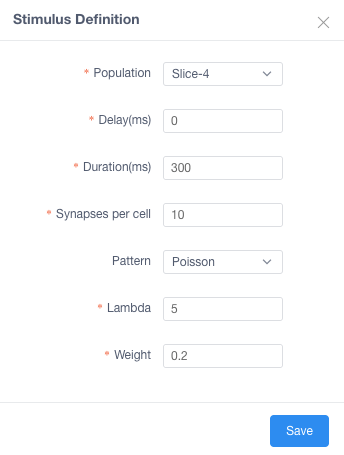
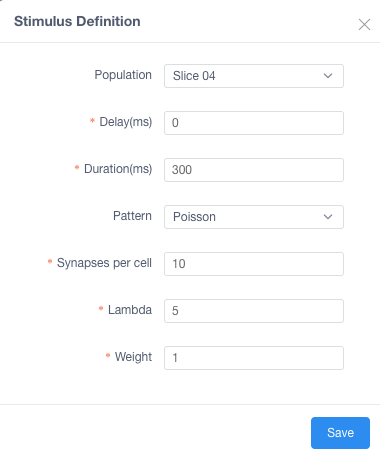
Update images Brain Area simulation documentation

diff --git a/source/online_usecases/brain_area_circuit_in_silico_experiments/hippocampus/configure_run_brainregion_preconf_model_data/configure_run_brainregion_preconf_model_data.rst b/source/online_usecases/brain_area_circuit_in_silico_experiments/hippocampus/configure_run_brainregion_preconf_model_data/configure_run_brainregion_preconf_model_data.rst
@@ -13,7 +13,7 @@ Run Simulations
 
 ----------------
 
-From the **top** you can configure:
+In the **top section** you can configure:
 
    |run_simulation_top|
 
@@ -21,11 +21,11 @@ From the **top** you can configure:
 -  ``Duration``: Time length of stimulus duration, given in
    milliseconds(ms)
 -  ``View Simulations``: From here you can see all the history of
-   simulations (explained in section **2**)
+   simulations (explained in section **View Simulations**)
 
 --------------
 
-From the **middle** you can configure:
+In the **next section** you can configure:
 
    |run_simulation_middle|
 
@@ -44,7 +44,7 @@ From the **middle** you can configure:
          milliseconds(ms)
       -  *Duration*: Time length of stimulus duration, given in
          milliseconds(ms)
-      -  *Number of synapses*: The number of synapses to create
+      -  *Synapses per cell*: The number of synapses to create
       -  *Pattern*: Type of stimulus to inject
       -  *Lambda*: Configure the random distribution
       -  *Weight*: The strength of the created synapses
@@ -63,14 +63,14 @@ From the **middle** you can configure:
          synapse]
       -  *StartTime*: Time to start reporting(ms)
       -  *EndTime*: Time to stop reporting(ms)
-      -  *Dt*: The frequency of reporting in milliseconds(ms)
-      -  *Format*: Defines the report output format [Bin, ASCII, HDF5]
+      -  *dt*: The frequency of reporting in milliseconds(ms)
+      -  *Format*: Defines the report output format [Binary, ASCII, HDF5]
 
          |edit_report|
 
 --------------
 
-From the **bottom** you can modify the ``connections`` and ``launch`` the simulation
+In the **next section** you can modify the ``connections``, ``projections`` and ``launch`` the simulation
 
 - You can modify the connection between populations on the circuit specifying
 
@@ -78,7 +78,7 @@ From the **bottom** you can modify the ``connections`` and ``launch`` the simula
  - *Destination:* This target defines postsynaptic cells
  - *Delay (ms):* A delay after which the modifications are applied
  - *Weight:* A scaling factor to adjust the synaptic strength (default = 1)
- - *MinisFreq:* The Poisson mean rate for miniature events
+ - *MinisFreq:* The Poisson mean rate for spontaneous synaptic activity
  - *Synapse Configuration:* Snippets of hoc code to manipulate additional synaptic parameters
 
    |connection_manipulation|
@@ -90,11 +90,12 @@ From the **bottom** you can modify the ``connections`` and ``launch`` the simula
 - You can modify the projection going to the circuit
 
  - *Weight:* A scaling factor to adjust the synaptic strength (default = 1)
- - *Minis Projection:* Frequency of the spontaneous activity
- - *Spike Replay Projection:* Generate inputs based on distribution
+ - *Minis Projection:* Generate inputs based on spontaneous synaptic activity
+   - *Frequency (Hz):* Frequency of the spontaneous synaptic activity
+ - *Spike Replay Projection:* Generate inputs based on a given distribution
     - *Target:* From which cells the projection is coming
-    - *Frequency (Hz):* The Poisson mean rate
-    - *Type:* Type of projection (default = Poisson)
+    - *Frequency (Hz):* The input mean rate
+    - *Stimulus Type:* Type of distribution (default = Poisson)
 
    |projection_manipulation|
 
@@ -122,7 +123,7 @@ View Simulations
 
 --------------
 
-From the **top** you are able to: |view_simulation_top|
+In the **top section** you are able to:
 
 -  ``Filter`` by *Title*, *Status*, *Supercomputer*, *Project*
 -  ``Import Simulation`` providing the full path to simulation folder on that HPC
@@ -131,9 +132,7 @@ From the **top** you are able to: |view_simulation_top|
 
 --------------
 
-From the **middle** you are able to:
-
-|view_simulation_middle|
+In the **next section** you are able to:
 
 -  ``Check status`` of Simulation and Analysis steps:
 
@@ -142,19 +141,18 @@ From the **middle** you are able to:
    - aborted |block|
    - failed |error|
 
--  ``Run Analysis`` if no analysis was launched you can do it from the
-   analysis step
+-  ``View`` the details page of the simulation.
 
-   -  This will open a form to configure the parameters before executing
+-  ``Analyse`` will open a form to configure the parameters before executing
       the analysis on the supercomputer
 
-      -  *Title*: Title of the job
-      -  *Analysis*: Type of analysis to run
-      -  *Population*: Population cells used for the simulation
-      -  *Report*: Report created by the simulation
-      -  *Cells*: Number of random cells to analyze
+   -  *Title*: Title of the job UPDATE TEXT
+   -  *Analysis*: Type of analysis to run
+   -  *Population*: Population cells used for the simulation
+   -  *Report*: Report created by the simulation
+   -  *Cells*: Number of random cells to analyze
 
-         |run_analysis_form|
+      |run_analysis_form|
 
 -  ``Delete`` the simulation
 
@@ -163,7 +161,7 @@ Simulation Details
 
 |simulation_details|
 
-From the **top** you are able to see:
+In the **top section** you are able to see:
 
 |simulation_details_top|
 
@@ -174,7 +172,7 @@ From the **top** you are able to see:
    - *Status*
    - *Submission Date*
 
-From the **middle** you are able to see:
+In the **next section** you are able to see:
 
    - *Analysis*: Plots of the analysis will be shown here
    - *BlueConfig*: The configuration that was sent to run the simulation
@@ -186,7 +184,7 @@ From the **middle** you are able to see:
 
       |simulation_details_middle|
 
-In ``Analysis`` section shows the different analysis the user has run
+The ``Analysis`` section shows the different analyses the user has run
 
    |simulation_details_analysis|
 
